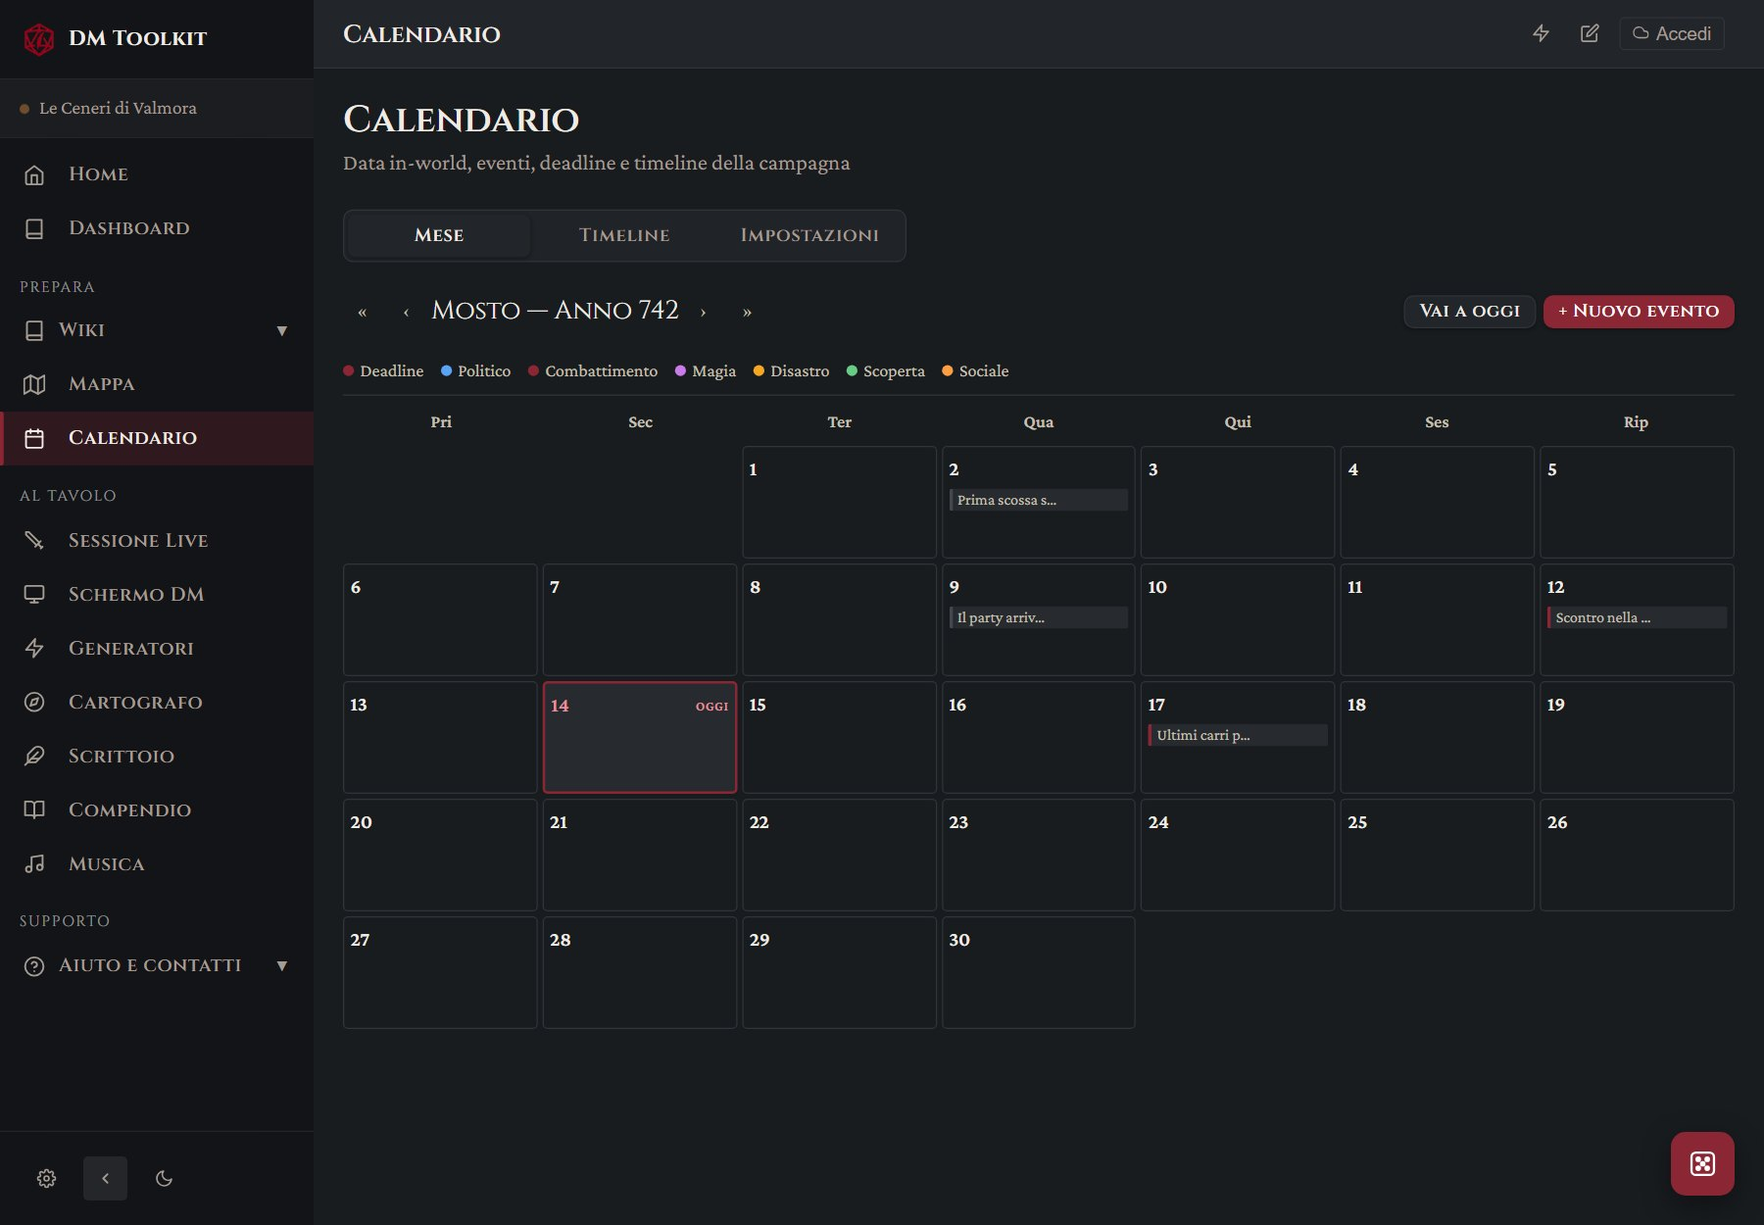
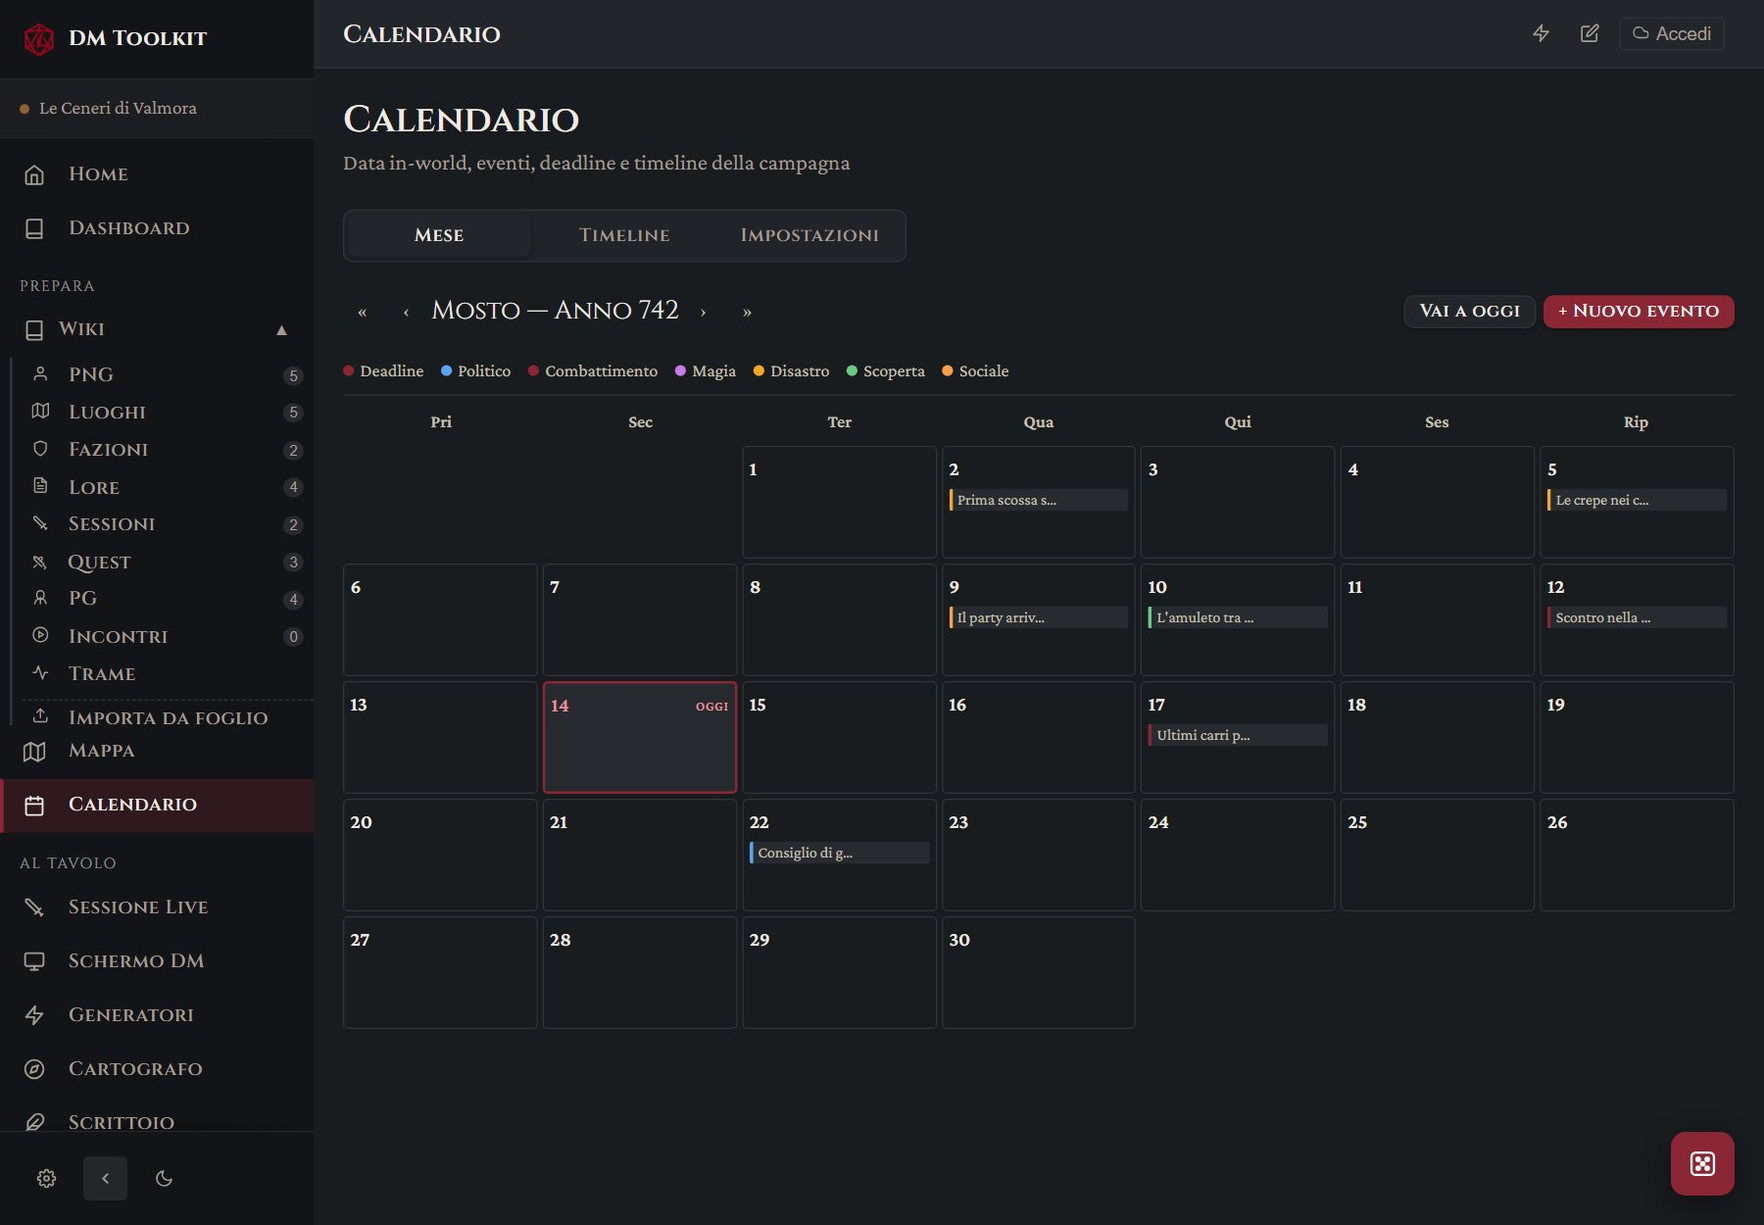
Combat tracker su telefono, grafo con i legami delle schede, tema con sfondo
- Combat tracker fino a 768px: riga su due livelli, CA ed eliminazione sempre
  visibili, niente sovrapposizioni con il testo al 125%.
- Grafo: conta anche i campi sede, fazione, regione e leader; linee leggibili
  in entrambi i temi; i nodi non escono dalla vista.
- Cambio tema: con uno sfondo personalizzato i colori non si ricalcolavano,
  perche' lo sfondo veniva cercato nelle impostazioni sbagliate.
- Campagna di esempio: note piu' ricche con link veri, piu' eventi in timeline.
- Stemmi: il caso non propone piu' il sole a raggi nero.
- README: Wiki, grafo, timeline e combattimento su telefono.

diff --git a/js/campagna-demo.js b/js/campagna-demo.js
@@ -28,6 +28,8 @@ const CampagnaDemo = (() => {
     App.openCampaign(camp.id);
     const cfg = (t) => WikiSections._getCfg(t);
     const nuovo = (t, campi) => { const c = cfg(t); const item = { ...c.newItem(), ...campi }; c.saveItem(App.getActiveCampaign(), item); return item.id; };
+    // Un collegamento come lo scrive l'editor della Wiki: cliccabile, e visto dal Grafo e dai collegamenti inversi
+    const link = (chiave, testo) => '<span class="nc-wikilink" data-link="' + chiave + '" onclick="wikiNavigateLink(\'' + chiave.replace(/'/g, "\\'") + '\')">[[' + testo + ']]</span>';
 
     // ── Luoghi ──
     const valmora = nuovo('luoghi', { nome: 'Valmora', tipo: 'Villaggio', clima: 'Temperato, ora coperto di cenere',
@@ -93,10 +95,14 @@ const CampagnaDemo = (() => {
     App.saveActiveCampaign({
       calendario: { tipo: 'custom', nome: 'Calendario di Valmora', mesi, giorni_settimana: ['Primo', 'Secondo', 'Terzo', 'Quarto', 'Quinto', 'Sesto', 'Riposo'], anno_base: 1, prefisso_anno: 'Anno', festivita: [], anno: 742, mese: 8, giorno: 14, ora: 18, minuti: 0 },
       calendarioEventi: [
-        { id: 'cev_demo1', titolo: 'Prima scossa sull\'Ardegna', data: { anno: 742, mese: 8, giorno: 2 }, tipo: 'evento', categoria: '', layer: 'mondo', descrizione: 'La terra trema per tutta la notte. Al mattino, dal cratere sale fumo.', entita: [{ tipo: 'luoghi', id: ardegna, nome: 'Monte Ardegna' }], promemoriaGiorni: 3, completata: false, creatoAt: ora, aggiornatoAt: ora },
-        { id: 'cev_demo2', titolo: 'Il party arriva a Valmora', data: { anno: 742, mese: 8, giorno: 9 }, tipo: 'evento', categoria: '', layer: 'campagna', descrizione: 'Prima sera al Tino Rovesciato.', entita: [{ tipo: 'luoghi', id: valmora, nome: 'Valmora' }], promemoriaGiorni: 3, completata: false, creatoAt: ora, aggiornatoAt: ora },
+        { id: 'cev_demo1', titolo: 'Prima scossa sull\'Ardegna', data: { anno: 742, mese: 8, giorno: 2 }, tipo: 'evento', categoria: 'disastro', layer: 'mondo', descrizione: 'La terra trema per tutta la notte. Al mattino, dal cratere sale fumo.', entita: [{ tipo: 'luoghi', id: ardegna, nome: 'Monte Ardegna' }], promemoriaGiorni: 3, completata: false, creatoAt: ora, aggiornatoAt: ora },
+        { id: 'cev_demo2', titolo: 'Il party arriva a Valmora', data: { anno: 742, mese: 8, giorno: 9 }, tipo: 'evento', categoria: 'sociale', layer: 'campagna', descrizione: 'Prima sera al Tino Rovesciato.', entita: [{ tipo: 'luoghi', id: valmora, nome: 'Valmora' }], promemoriaGiorni: 3, completata: false, creatoAt: ora, aggiornatoAt: ora },
         { id: 'cev_demo3', titolo: 'Scontro nella cripta', data: { anno: 742, mese: 8, giorno: 12 }, tipo: 'evento', categoria: 'combattimento', layer: 'campagna', descrizione: 'Il party respinge i Custodi all\'ingresso della cripta.', entita: [{ tipo: 'luoghi', id: cripta, nome: 'Cripta della Fiamma Quieta' }], promemoriaGiorni: 3, completata: false, creatoAt: ora, aggiornatoAt: ora },
         { id: 'cev_demo4', titolo: 'Ultimi carri per Corvara', data: { anno: 742, mese: 8, giorno: 17 }, tipo: 'deadline', categoria: '', layer: 'campagna', descrizione: 'Dopo questa data la strada verrà chiusa dalla guardia.', entita: [{ tipo: 'luoghi', id: corvara, nome: 'Corvara' }], promemoriaGiorni: 5, conseguenza: 'La guardia chiude la strada: il vino resta a Valmora, Bertrando rischia la rovina e la Gilda dei Vignaioli diventa sospettosa verso il party.', completata: false, creatoAt: ora, aggiornatoAt: ora },
+        { id: 'cev_demo6', titolo: 'Inizia la vendemmia', data: { anno: 742, mese: 7, giorno: 24 }, tipo: 'evento', categoria: 'sociale', layer: 'mondo', descrizione: 'Tutta Valmora è nelle vigne. Bertrando promette a Corvara il raccolto migliore da anni.', entita: [{ tipo: 'luoghi', id: valmora, nome: 'Valmora' }], promemoriaGiorni: 3, completata: false, creatoAt: ora, aggiornatoAt: ora },
+        { id: 'cev_demo7', titolo: 'Le crepe nei campi', data: { anno: 742, mese: 8, giorno: 5 }, tipo: 'evento', categoria: 'disastro', layer: 'mondo', descrizione: 'Si aprono le prime crepe tra i filari. Dall\'Ardegna scende odore di zolfo.', entita: [{ tipo: 'luoghi', id: ardegna, nome: 'Monte Ardegna' }], promemoriaGiorni: 3, completata: false, creatoAt: ora, aggiornatoAt: ora },
+        { id: 'cev_demo8', titolo: 'L\'amuleto tra le braci', data: { anno: 742, mese: 8, giorno: 10 }, tipo: 'evento', categoria: 'scoperta', layer: 'campagna', descrizione: 'Tra i resti della creatura di fuoco il party trova un amuleto dei Custodi della Cenere.', entita: [{ tipo: 'luoghi', id: valmora, nome: 'Valmora' }], promemoriaGiorni: 3, completata: false, creatoAt: ora, aggiornatoAt: ora },
+        { id: 'cev_demo9', titolo: 'Consiglio di guerra a Corvara', data: { anno: 742, mese: 8, giorno: 22 }, tipo: 'evento', categoria: 'politico', layer: 'campagna', descrizione: 'Il capitano Dalia Ferraguto decide se evacuare la valle.', entita: [{ tipo: 'luoghi', id: corvara, nome: 'Corvara' }], promemoriaGiorni: 5, completata: false, creatoAt: ora, aggiornatoAt: ora },
       ],
       sessioni_log: [
         { id: 'sess_demo1', numero: 1, titolo: 'Cenere sul vino', data: new Date(ora - 14 * 864e5).toISOString().slice(0, 10), data_inworld: { anno: 742, mese: 8, giorno: 9 }, stato: 'giocata',
@@ -129,9 +135,16 @@ const CampagnaDemo = (() => {
                { nome: 'Pazienza della guardia di Corvara', max: 6, current: 1, nota: 'La guardia chiude la valle: nessuno entra o esce senza un lasciapassare' }],
       wiki: { ...(App.getActiveCampaign().wiki || {}), lore: [
         { id: 'n_demo1', titolo: 'L\'Ordine della Fiamma Quieta', categoria: 'Storia', tags: ['storia', 'ordine'], creatoAt: ora, aggiornatoAt: ora,
-          contenuto: '<p>Tre secoli fa i monaci dell\'Ordine incatenarono il fuoco del <a class="nc-wikilink">[[Monte Ardegna]]</a> con un sigillo di tre anelli, nascosto nella <a class="nc-wikilink">[[Cripta della Fiamma Quieta]]</a>.</p><p>L\'ordine si sciolse un secolo fa. Ne resta solo <a class="nc-wikilink">[[Fratello Orsino]]</a>. #storia</p>' },
+          contenuto: '<p>Tre secoli fa i monaci dell\'Ordine incatenarono il fuoco del ' + link('luogo:Monte Ardegna', 'Monte Ardegna') + ' con un sigillo di tre anelli, nascosto nella ' + link('luogo:Cripta della Fiamma Quieta', 'Cripta della Fiamma Quieta') + '.</p>' +
+            '<h3>La regola</h3><p>Ogni monaco vegliava sul ' + link('Il sigillo dei tre anelli', 'sigillo') + ' per un anno intero, senza scendere a valle. In cambio ' + link('luogo:Valmora', 'Valmora') + ', il villaggio fondato dall\'Ordine, mandava pane e vino agli eremi sul vulcano. Da quei carri nasce il commercio che oggi la ' + link('fazione:Gilda dei Vignaioli', 'Gilda dei Vignaioli') + ' porta fino a ' + link('luogo:Corvara', 'Corvara') + '.</p>' +
+            '<h3>La fine</h3><p>L\'ordine si sciolse un secolo fa: il vulcano taceva da così tanto che nessuno credeva più al pericolo. Ne resta solo ' + link('png:Fratello Orsino', 'Fratello Orsino') + '. #storia</p>' +
+            '<div class="wiki-callout wiki-callout-read"><span class="wiki-callout-label">DA LEGGERE AD ALTA VOCE</span><p>Sopra la porta dell\'eremo, consumate dal vento, restano poche parole: «Finché uno veglia, tutti dormono».</p></div>' },
         { id: 'n_demo2', titolo: 'Il sigillo dei tre anelli', categoria: 'Magia', tags: ['magia'], creatoAt: ora, aggiornatoAt: ora,
-          contenuto: '<p>Ogni anello trattiene un terzo del fuoco. Quando il terzo si spezza, il vulcano erutta.</p><div class="wiki-callout wiki-callout-secret"><span class="wiki-callout-label">SEGRETO DM</span><p>Il sigillo si ripara solo con il sacrificio volontario di chi lo ha creato: Fratello Orsino lo sa, e non lo dice.</p></div>' },
+          contenuto: '<p>Ogni anello trattiene un terzo del fuoco. Quando il terzo si spezza, il vulcano erutta.</p><p>Il primo anello è già rotto: il party lo ha visto nella ' + link('luogo:Cripta della Fiamma Quieta', 'Cripta della Fiamma Quieta') + '. Chi lo ha spezzato è ' + link('png:Madre Cinerea', 'Madre Cinerea') + ', ma i personaggi non lo sanno ancora.</p><div class="wiki-callout wiki-callout-secret"><span class="wiki-callout-label">SEGRETO DM</span><p>Il sigillo si ripara solo con il sacrificio volontario di chi lo ha creato: ' + link('png:Fratello Orsino', 'Fratello Orsino') + ' lo sa, e non lo dice.</p></div>' },
+        { id: 'n_demo3', titolo: 'Chi sono i Custodi', categoria: 'Fazioni', tags: ['fazioni'], creatoAt: ora, aggiornatoAt: ora,
+          contenuto: '<p>I ' + link('fazione:Custodi della Cenere', 'Custodi della Cenere') + ' sono arrivati a valle con le prime scosse, offrendo preghiere e pane a chi ha perso il raccolto. Li guida ' + link('png:Madre Cinerea', 'Madre Cinerea') + ', e al ' + link('luogo:Il Tino Rovesciato', 'Tino Rovesciato') + ' c\'è già chi li difende.</p><div class="wiki-callout wiki-callout-clue"><span class="wiki-callout-label">INDIZIO</span><p>Elio, il figlio di ' + link('png:Tessa Brunvento', 'Tessa Brunvento') + ', porta il loro amuleto sotto la camicia.</p></div>' },
+        { id: 'n_demo4', titolo: 'La strada per Corvara', categoria: 'Luoghi', tags: ['viaggio'], creatoAt: ora, aggiornatoAt: ora,
+          contenuto: '<p>Due giorni di carro da ' + link('luogo:Valmora', 'Valmora') + ' a ' + link('luogo:Corvara', 'Corvara') + ', lungo il fiume. ' + link('png:Bertrando Viti', 'Bertrando Viti') + ' deve far passare la vendemmia prima che ' + link('png:Capitano Dalia Ferraguto', 'il capitano Ferraguto') + ' chiuda la strada.</p>' },
       ], sessioni: [] },
     });
 

diff --git a/index.html b/index.html
@@ -3812,10 +3812,9 @@ const App = (() => {
     // tema, ma va ricalcolato: la sua luminosita' segue il tema chiaro/scuro appena scelto,
     // il colore scelto resta solo la tonalita'. Cosi' il toggle ha sempre un effetto visibile
     // invece di essere ignorato o di azzerare la scelta dell'utente.
-    const bgColor = Storage.getSettings()?.bgColor;
-    if (bgColor && bgColor !== 'default') {
-      try { Settings.reapplyBg(); } catch(e) {}
-    }
+    // Lo sfondo scelto sta nelle impostazioni di Settings (dm_settings), non in quelle di Storage:
+    // e' reapplyBg a leggerlo, e non fa nulla se lo sfondo e' quello predefinito.
+    try { Settings.reapplyBg(); } catch(e) {}
 
     Debug.log(`Tema: ${theme}`);
   };
@@ -11854,7 +11853,11 @@ const WikiGrafo = (() => {
       if (!map[id]) { const n={id,label,tipo,ref,deg:0}; nodes.push(n); map[id]=n; }
       return map[id];
     };
-    const link = (s,t) => { if(map[s]&&map[t]&&s!==t){ links.push({source:s,target:t}); map[s].deg++; map[t].deg++; } };
+    const visti = new Set();
+    const link = (s,t) => {
+      const chiave = s < t ? s+'|'+t : t+'|'+s;
+      if(map[s]&&map[t]&&s!==t&&!visti.has(chiave)){ visti.add(chiave); links.push({source:s,target:t}); map[s].deg++; map[t].deg++; }
+    };
 
     if (showWiki) ['lore','sessioni'].forEach(sec => (wiki[sec]||[]).forEach(n => add('w_'+n.id, n.titolo||'—', sec==='sessioni'?'sessione':'wiki', {sec,id:n.id})));
     if (showPng)  (camp?.npcs||[]).forEach(n => add('p_'+n.id, n.name||n.nome||'', 'png', {id:n.id}));
@@ -11873,6 +11876,20 @@ const WikiGrafo = (() => {
       });
     }));
     if (showPng&&showFaz) (camp?.npcs||[]).forEach(n=>{ if(n.factionId)link('p_'+n.id,'f_'+n.factionId); });
+
+    // I campi @menzione delle schede (sede, fazione, regione, leader) sono legami veri quanto i link nelle note
+    const nomi = (v) => String(v||'').split(/[,;]/).map(s=>s.trim().replace(/^@/,'').toLowerCase()).filter(Boolean);
+    const cerca = (lista, nome, pref) => { const x=(lista||[]).find(e=>(e.nome||e.name||'').trim().toLowerCase()===nome); return x ? pref+x.id : null; };
+    const lega = (src, valore, lista, pref) => nomi(valore).forEach(nome => { const t=cerca(lista,nome,pref); if(t)link(src,t); });
+    (camp?.npcs||[]).forEach(n => {
+      lega('p_'+n.id, n.sede||n.location, camp?.locations, 'l_');
+      lega('p_'+n.id, n.fazione, camp?.factions, 'f_');
+    });
+    (camp?.locations||[]).forEach(l => lega('l_'+l.id, l.regione, camp?.locations, 'l_'));
+    (camp?.factions||[]).forEach(f => {
+      lega('f_'+f.id, f.sede, camp?.locations, 'l_');
+      lega('f_'+f.id, f.leader, camp?.npcs, 'p_');
+    });
     return {nodes,links};
   };
 
@@ -11924,10 +11941,10 @@ const WikiGrafo = (() => {
     const defs=d3svg.append('defs');
     defs.append('marker').attr('id','arr').attr('viewBox','0 -5 10 10').attr('refX',22).attr('refY',0)
       .attr('markerWidth',5).attr('markerHeight',5).attr('orient','auto')
-      .append('path').attr('d','M0,-5L10,0L0,5').attr('fill','#444');
+      .append('path').attr('d','M0,-5L10,0L0,5').style('fill','var(--text-muted)');
 
     const lnk=g.append('g').selectAll('line').data(links).enter().append('line')
-      .attr('stroke','#444').attr('stroke-width',1.5).attr('marker-end','url(#arr)').attr('opacity',0.5);
+      .style('stroke','var(--text-muted)').attr('stroke-width',1.5).attr('marker-end','url(#arr)').attr('opacity',0.7);
 
     const nd=g.append('g').selectAll('g').data(nodes).enter().append('g').attr('cursor','pointer')
       .call(d3.drag()
@@ -11938,16 +11955,18 @@ const WikiGrafo = (() => {
 
     nd.append('circle').attr('r',d=>Math.max(16,12+d.deg*3))
       .attr('fill',d=>C[d.tipo]||'#888').attr('fill-opacity',0.85)
-      .attr('stroke','#1a1a1a').attr('stroke-width',2);
+      .style('stroke','var(--bg-primary)').attr('stroke-width',2);
     nd.append('text').attr('text-anchor','middle').attr('dy','0.35em').attr('font-size','12').text(d=>I[d.tipo]||'📄');
     nd.append('text').attr('text-anchor','middle').attr('dy',d=>Math.max(16,12+d.deg*3)+13)
-      .attr('fill','#ccc').attr('font-size','10').text(d=>d.label.length>16?d.label.slice(0,14)+'…':d.label);
+      .style('fill','var(--text-secondary)').attr('font-size','10').text(d=>d.label.length>16?d.label.slice(0,14)+'…':d.label);
 
     _sim=d3.forceSimulation(nodes)
-      .force('link',d3.forceLink(links).id(d=>d.id).distance(110).strength(0.8))
-      .force('charge',d3.forceManyBody().strength(-280))
+      .force('link',d3.forceLink(links).id(d=>d.id).distance(150).strength(0.5))
+      .force('charge',d3.forceManyBody().strength(-620))
       .force('center',d3.forceCenter(W/2,H/2))
-      .force('collision',d3.forceCollide(35))
+      .force('x',d3.forceX(W/2).strength(0.04))   // i nodi senza legami non scappano fuori dalla vista
+      .force('y',d3.forceY(H/2).strength(0.07))
+      .force('collision',d3.forceCollide(48))
       .on('tick',()=>{
         lnk.attr('x1',d=>d.source.x).attr('y1',d=>d.source.y).attr('x2',d=>d.target.x).attr('y2',d=>d.target.y);
         nd.attr('transform',d=>'translate('+d.x+','+d.y+')');

diff --git a/css/layout.css b/css/layout.css
@@ -797,3 +797,30 @@
   }
   #quick-view-panel.qv-visible { transform: translateY(0); }
 }
+
+
+/* Combat tracker fino ai 768px: la riga si divide su due righe, cosi' iniziativa, nome e CA
+   stanno sopra, PF e azioni sotto. Non si nasconde piu' niente e i bottoni restano toccabili,
+   anche con il testo ingrandito dalle Impostazioni. */
+@media (max-width: 768px) {
+  .combat-header > div:last-child, .combat-footer { flex-wrap:wrap; }
+  .combat-list .combat-row {
+    display:grid; grid-template-columns:52px 72px minmax(0,1fr) auto;
+    grid-template-areas:"init name name ca" "hp hp actions actions";
+    align-items:center; gap:6px 10px; padding:10px var(--space-sm);
+  }
+  .combat-list .combat-init-col { grid-area:init; width:auto; }
+  .combat-round-badge { white-space:nowrap; }
+  .combat-list .combat-init-input { width:52px; padding:4px 0; appearance:textfield; -moz-appearance:textfield; }
+  .combat-list .combat-init-input::-webkit-inner-spin-button, .combat-list .combat-init-input::-webkit-outer-spin-button { appearance:none; margin:0; }
+  .combat-list .combat-name-col { grid-area:name; overflow-wrap:anywhere; }
+  .combat-list .combat-ca-col { grid-area:ca; display:block; }
+  .combat-list .combat-hp-col { grid-area:hp; width:auto; }
+  .combat-list .combat-actions-col { grid-area:actions; flex-wrap:wrap; justify-content:flex-end; gap:2px; }
+  .combat-list .combat-actions-col .btn-icon-sm { width:34px !important; height:34px !important; }
+  .combat-list .combat-actions-col .btn-icon-sm:nth-child(n+5) { display:inline-flex; }
+}
+@media (max-width: 430px) {
+  .combat-list .combat-actions-col { gap:0; }
+  .combat-list .combat-actions-col .btn-icon-sm { width:30px !important; }
+}

diff --git a/js/araldica.js b/js/araldica.js
@@ -62,8 +62,10 @@ const Araldica = (() => {
     const col = ['rosso', 'azzurro', 'verde', 'nero', 'porpora'], met = ['oro', 'argento'];
     const metalloSotto = r.chance(0.3), a = metalloSotto ? r.pick(met) : r.pick(col), b = metalloSotto ? r.pick(col) : r.pick(met);
     const partizione = r.chance(0.3) ? 'pieno' : r.pick(Object.keys(PARTIZIONI));
+    // Un sole a raggi nero ricorda il "sole nero" neonazista: il caso non lo propone. A mano resta possibile.
+    const simboloDalCaso = (s) => (s === 'sole' && (a === 'nero' || b === 'nero') ? 'luna' : s);
     return {
-      forma: r.pick(Object.keys(FORME)), partizione, smalto1: a, smalto2: b, simbolo: r.pick(Object.keys(SIMBOLI)), motto: r.pick(MOTTI),
+      forma: r.pick(Object.keys(FORME)), partizione, smalto1: a, smalto2: b, simbolo: simboloDalCaso(r.pick(Object.keys(SIMBOLI))), motto: r.pick(MOTTI),
       disposizione: partizione === 'pieno' && r.chance(0.3) ? 'tre' : 'uno', bordura: r.chance(0.3), ornamento: r.pick(Object.keys(ORNAMENTI)),
     };
   };

diff --git a/README.md b/README.md
@@ -57,18 +57,22 @@ Per vederla in azione: apri l'app e, nella Home vuota, scegli **"Prova con una c
 
 ### Wiki
 
+![Una nota della Wiki con i collegamenti a luoghi, personaggi e fazioni](scopri/img/app-wiki.jpg)
+
 Editor con barra di formattazione (titoli, grassetto, corsivo, colori, evidenziatore) e riquadri speciali: Da leggere ad alta voce, Segreto DM, Bottino, Indizio, Trappola, Idea al volo. Le note supportano:
 
 - **Collegamenti** — `[[Nome PNG]]`, `[[location:Castello]]`, `[[faction:Gilda]]`, con navigazione diretta all'elemento collegato
 - **@menzioni** — scrivi `@` in qualsiasi editor per scegliere un elemento della campagna, o crearne uno nuovo al volo
 - **Tag** — `#tag` colorati, con barra e filtro
 - **Collegamenti inversi** — ogni nota sa chi la cita
-- **Grafo** — tutti i collegamenti tra gli elementi della campagna, cliccabili
+- **Grafo** — tutti i legami della campagna, cliccabili: i collegamenti nelle note e i campi delle schede, come la sede di un PNG o la sua fazione
 - **Modelli** — Sessione, Lore, PNG, Luogo, Oggetto magico, Dungeon/Stanza, Evento/Segreto, Negozio, più i tuoi
 - **Import da foglio di calcolo** — PNG, luoghi e altro da CSV (compatibile con Excel in italiano)
 - **Cestino** — le voci eliminate si possono recuperare
 
 La ricerca globale `Ctrl+K` cerca in note, PNG, luoghi, fazioni e Compendio, anche nel contenuto dei campi.
+
+![Il grafo della campagna di esempio](docs/img/grafo.jpg)
 
 ### Mondo
 
@@ -127,6 +131,8 @@ I generatori sono scritti apposta per il toolkit e funzionano senza servizi este
 - **Eventi e scadenze** con promemoria; le scadenze vicine compaiono nella Dashboard.
 - **Conseguenze programmate** — una scadenza può dire cosa succede se il party non interviene: prima della data compare come "Se scade…", dopo come "È successo…". Anche un clock pieno mostra la sua conseguenza.
 - **Timeline** di eventi e sessioni: gli eventi vicini nel tempo vanno su righe diverse, così i nomi non si sovrappongono mai. Lo zoom allarga solo il tempo, le scritte restano leggibili.
+
+![La timeline della campagna di esempio](docs/img/timeline.jpg)
 
 ### Sessioni
 
@@ -251,6 +257,7 @@ DM Toolkit si installa come un'app: "Installa app" in Chrome o Edge su PC, "Aggi
 <p>
   <img src="docs/img/telefono-dashboard.jpg" width="260" alt="La Dashboard su telefono">
   <img src="docs/img/telefono-png.jpg" width="260" alt="La scheda di un PNG su telefono">
+  <img src="docs/img/telefono-combat.jpg" width="260" alt="Il combat tracker su telefono">
 </p>
 
 - **Funziona offline** in tutte le sue parti: al primo avvio con internet scarica dati, Compendio, generatori, font e librerie. Le immagini delle mappe già viste si vedono anche senza connessione. Le modifiche fatte offline si sincronizzano al ritorno della rete.
